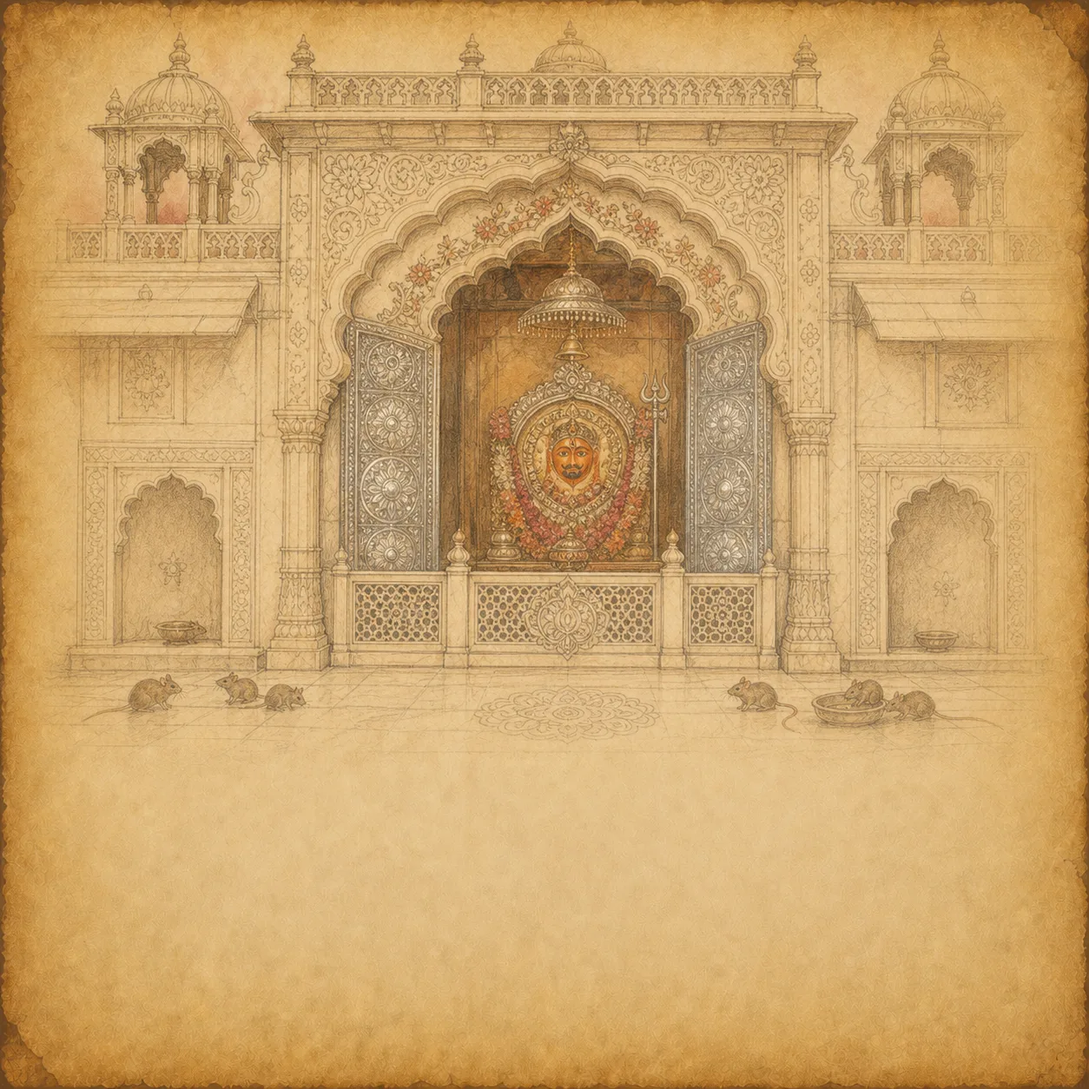
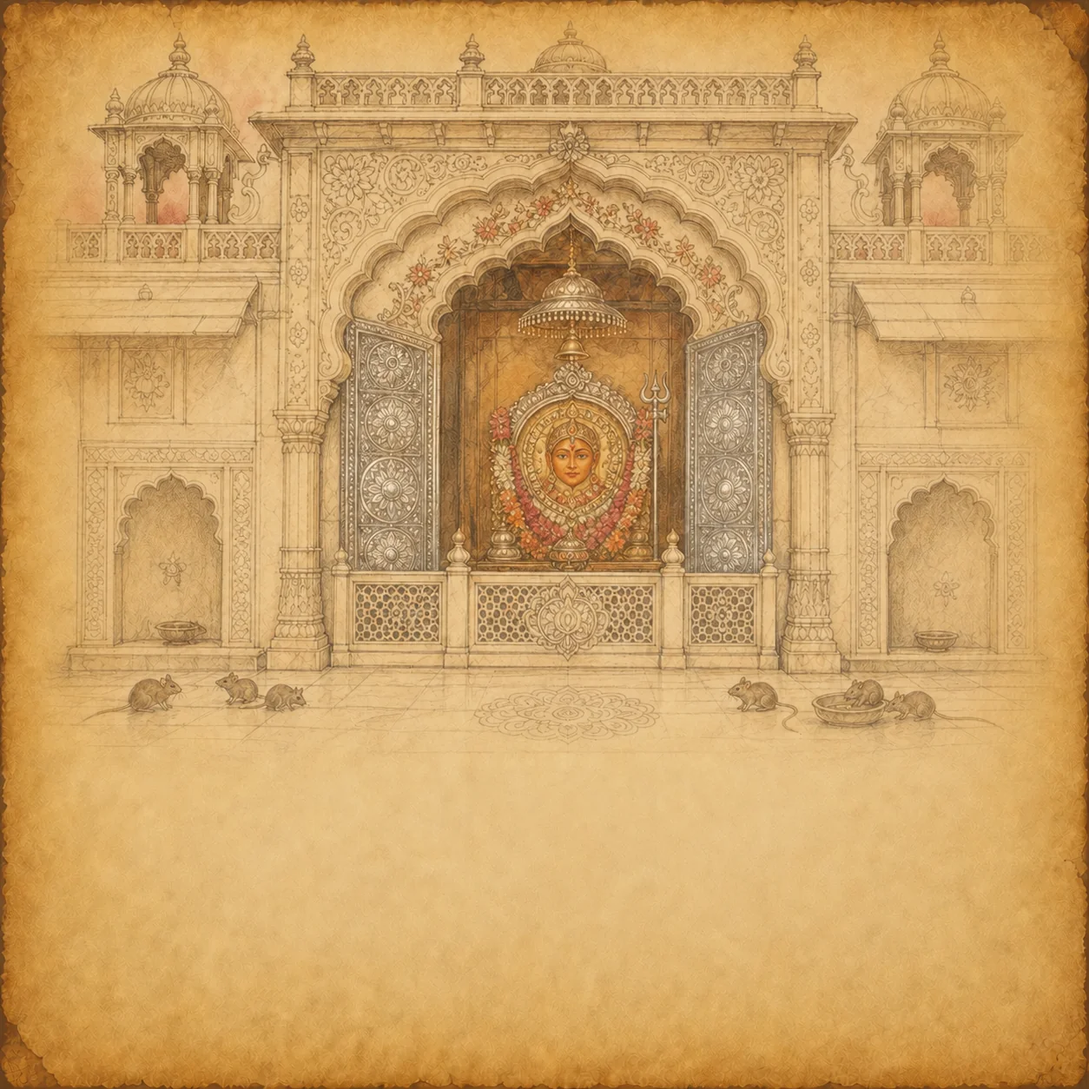
feat(artwork): serve Garud Puran art and reviewed corrections from R2
The nine Garud Puran paintings and the five 14 Oct artwork corrections were
the only reading art still bundled with require() (~2.5 MB). All 14 are now
published to R2 (immutable caching, byte-identical public responses) and
resolved through the existing content-hashed manifests:

- Garud Puran: new garud-puran folder in prepare-reading-backgrounds.mjs;
  garudPuranImages are RemoteBackground descriptors.
- Corrections: the approved files replace their slot sources (four
  backgrounds, Karni Mata banner); new hashes mean new cache files, so stale
  downloads of the old art are never reused. artworkCorrections.ts removed.
- ListingThumbImage crops R2 art from manifest dimensions.
- Guard test fails if reading artwork is require()d again (RULEBOOK §11.8).

diff --git a/mobile/src/components/__tests__/BackgroundArtwork.test.tsx b/mobile/src/components/__tests__/BackgroundArtwork.test.tsx
@@ -8,13 +8,8 @@ import { ArtworkCaptureContext, createArtworkPaintBarrier } from '../ArtworkCapt
 import { readerIllustrationAsset } from '@/data/readerIllustrationAsset';
 import { backgroundAsset, bundledReadingFallback } from '@/data/backgroundAsset';
 import { evictBackgroundAsset, subscribeBackgroundAsset } from '@/utils/backgroundAssetCache';
-import { bundledArtworkCorrection } from '@/data/artworkCorrections';
-
-jest.mock('@assets/artwork-corrections/theerth-karni-mata-background.webp', () => 101);
-jest.mock('@assets/artwork-corrections/theerth-karni-mata-banner.webp', () => 102);
-jest.mock('@assets/artwork-corrections/hanuman-sita-background.webp', () => 103);
-jest.mock('@assets/artwork-corrections/ram-hanuman-background.webp', () => 104);
-jest.mock('@assets/artwork-corrections/rama-darbar-background.webp', () => 105);
+import { readFileSync } from 'fs';
+import path from 'path';
 
 jest.mock('@/utils/backgroundAssetCache', () => ({
   subscribeBackgroundAsset: jest.fn(),
@@ -26,6 +21,8 @@ jest.mock('@/data/readerIllustrationManifest.json', () => ({
   assets: { 'deity-krishna-bansuri': { hash: 'krishna-fixture', ext: 'webp', width: 960, height: 480 } },
 }));
 
+const approvedCorrections: { assets: Record<string, { sha256: string }> } = JSON.parse(readFileSync(
+  path.join(__dirname, '../../../../docs/evaluations/artwork-corrections-2026-10-14/approved.json'), 'utf8'));
 const source = backgroundAsset('backgrounds--source-vishnu-narayana');
 const other = backgroundAsset('backgrounds--deity-durga-lion');
 const neutral = backgroundAsset('backgrounds--reading-parchment-option2');
@@ -156,38 +153,19 @@ test('reader illustrations share deferred work and keep fallback until native de
   expect(StyleSheet.flatten(remote.props.style).opacity).toBe(1);
 });
 
+// The reviewed 14 Oct refinements ship from R2 under their own hashes: a new hash
+// is a new cache file, so stale downloads of the old art are never reused.
 test.each([
-  backgroundAsset('backgrounds--theerth-karni-mata'),
-  backgroundAsset('chalisa--Hanuman_sita'),
-  backgroundAsset('chalisa--Ram_hanuman'),
-  backgroundAsset('backgrounds--deity-rama-darbar'),
-  readerIllustrationAsset('theerth-karni-mata'),
-])('reviewed correction %s paints immediately without requesting stale cached art', corrected => {
-  act(() => { tree = TestRenderer.create(<CachedArtwork source={corrected} fallback={<Image source={99} />} />); });
-  expect(tree.root.findByType(Image).props.source).toBe(bundledArtworkCorrection(corrected));
-  expect(deferred).toHaveLength(0);
-  expect(subscribeBackgroundAsset).not.toHaveBeenCalled();
-});
-
-test('sharing a bundled correction waits for native paint, including after changing the source', async () => {
-  const capture = createArtworkPaintBarrier();
-  const corrected = backgroundAsset('backgrounds--theerth-karni-mata');
-  act(() => { tree = TestRenderer.create(<ArtworkCaptureContext.Provider value={capture}><CachedArtwork source={corrected} /></ArtworkCaptureContext.Provider>); });
-  let painted = false;
-  const waiting = capture.wait(1000).then(result => { painted = true; return result; });
-  await Promise.resolve();
-  expect(painted).toBe(false);
-  act(() => tree.root.findByType(Image).props.onLoad());
-  await expect(waiting).resolves.toBe(true);
-  const oldEvents = tree.root.findByType(Image).props;
-  act(() => tree.update(<ArtworkCaptureContext.Provider value={capture}><CachedArtwork source={readerIllustrationAsset('theerth-karni-mata')} /></ArtworkCaptureContext.Provider>));
-  painted = false;
-  const changed = capture.wait(1000).then(result => { painted = true; return result; });
-  await Promise.resolve();
-  expect(painted).toBe(false);
-  act(() => { oldEvents.onLoad(); oldEvents.onError(); });
-  await Promise.resolve();
-  expect(painted).toBe(false);
-  act(() => tree.root.findByType(Image).props.onLoad());
-  await expect(changed).resolves.toBe(true);
+  ['backgrounds--theerth-karni-mata', 'theerth-karni-mata-background.webp'],
+  ['chalisa--Hanuman_sita', 'hanuman-sita-background.webp'],
+  ['chalisa--Ram_hanuman', 'ram-hanuman-background.webp'],
+  ['backgrounds--deity-rama-darbar', 'rama-darbar-background.webp'],
+] as const)('reviewed correction %s is requested from R2 at its approved hash', (stem, file) => {
+  const hash = approvedCorrections.assets[file].sha256.slice(0, 16);
+  act(() => { tree = TestRenderer.create(<CachedArtwork source={backgroundAsset(stem)} />); });
+  expect(tree.root.findByType(Image).props.source).toBe(bundledReadingFallback);
+  act(() => deferred[0]());
+  expect(subscribeBackgroundAsset).toHaveBeenCalledWith(expect.objectContaining({
+    key: hash, subdir: 'reading-backgrounds', remoteUrl: expect.stringContaining(`/reading-backgrounds/${hash}.webp`),
+  }), expect.any(Function));
 });

diff --git a/mobile/src/components/ListingCard.tsx b/mobile/src/components/ListingCard.tsx
@@ -1,5 +1,5 @@
 import React, { useState } from 'react';
-import { Image, Pressable, StyleSheet, Text, View, type ImageSourcePropType } from 'react-native';
+import { Image, Pressable, StyleSheet, Text, View } from 'react-native';
 import { LinearGradient } from 'expo-linear-gradient';
 import { useTheme } from '@/theme/ThemeContext';
 import { elevation } from '@/theme/elevation';
@@ -7,6 +7,8 @@ import { fontFamilies } from '@/theme/typography';
 import { useGitaLanguage } from '@/data/gita/language';
 import { isLatinLang, meaningToken, pillTextStyle, titleFontByLang } from '@/utils/langType';
 import { coverRect } from '@/utils/coverRect';
+import { backgroundAspectRatio, type BackgroundImage } from '@/data/backgroundAsset';
+import CachedArtwork from './CachedArtwork';
 
 /**
  * The one content-listing card (design.md §82, RULEBOOK §3 "Listing cards").
@@ -136,25 +138,30 @@ export function ListingScope({ children, testID }: { children: string; testID?: 
 }
 
 /**
- * A bundled image cover-cropped into the listing thumb, keeping `focusX` (0–1
+ * A painting cover-cropped into the listing thumb, keeping `focusX` (0–1
  * across the painting) in view — wide paintings put their subject off-centre.
+ * Bundled images use their intrinsic size; published R2 paintings use the
+ * manifest dimensions, so the crop is known before anything downloads.
  */
-export function ListingThumbImage({ source, focusX = 0.5 }: { source: ImageSourcePropType; focusX?: number }) {
+export function ListingThumbImage({ source, focusX = 0.5 }: { source: BackgroundImage; focusX?: number }) {
   const [box, setBox] = useState({ width: 0, height: 0 });
-  const asset = Image.resolveAssetSource(source);
-  const rect = box.width && asset?.width ? coverRect(asset.width, asset.height, box.width, box.height, focusX) : null;
+  const asset = typeof source === 'number' ? Image.resolveAssetSource(source) : undefined;
+  const remoteRatio = backgroundAspectRatio(source);
+  const size = asset?.width && asset.height ? { width: asset.width, height: asset.height }
+    : remoteRatio ? { width: remoteRatio, height: 1 } : null;
+  const rect = box.width && size ? coverRect(size.width, size.height, box.width, box.height, focusX) : null;
+  // right/bottom 'auto' so the cached image's absolute-fill base cannot stretch it back to the box.
+  const placement = rect ? { position: 'absolute' as const, width: rect.width, height: rect.height, left: rect.left, top: rect.top, right: 'auto' as const, bottom: 'auto' as const } : null;
   return (
     <View
       style={StyleSheet.absoluteFillObject}
       onLayout={event => setBox({ width: event.nativeEvent.layout.width, height: event.nativeEvent.layout.height })}
     >
-      {rect ? (
-        <Image
-          source={source}
-          accessible={false}
-          resizeMode="stretch"
-          style={{ position: 'absolute', width: rect.width, height: rect.height, left: rect.left, top: rect.top }}
-        />
+      {placement && typeof source === 'number' ? (
+        <Image source={source} accessible={false} resizeMode="stretch" style={placement} />
+      ) : null}
+      {placement && typeof source !== 'number' ? (
+        <CachedArtwork source={source} style={StyleSheet.absoluteFill} imageStyle={placement} resizeMode="stretch" />
       ) : null}
     </View>
   );

diff --git a/mobile/src/components/__tests__/ListingCard.test.tsx b/mobile/src/components/__tests__/ListingCard.test.tsx
@@ -2,11 +2,13 @@ import React from 'react';
 import fs from 'fs';
 import path from 'path';
 import TestRenderer, { act } from 'react-test-renderer';
+import CachedArtwork from '../CachedArtwork';
 
 let mockLang = 'hi';
 jest.mock('react-native', () => ({
   Image: Object.assign((props: object) => require('react').createElement('Image', props), { resolveAssetSource: () => ({ width: 960, height: 480 }) }),
   Pressable: 'Pressable', Text: 'Text', View: 'View',
+  InteractionManager: { runAfterInteractions: () => ({ cancel: () => undefined }) },
   StyleSheet: { create: (x: unknown) => x, absoluteFillObject: { position: 'absolute' } },
   Platform: { OS: 'ios', select: (options: Record<string, unknown>) => options.ios ?? options.default },
 }));
@@ -86,6 +88,18 @@ test('a wide painting is cover-cropped around its focal point once the thumb is 
   const image = tree.root.findByType('Image' as any);
   expect(image.props.style).toMatchObject({ width: 230, height: 115 });
   expect(image.props.style.left).toBeCloseTo(46 - 0.68 * 230);
+});
+
+test('a published R2 painting is cropped from its manifest size before it downloads', () => {
+  const remote = { kind: 'remote-background', stem: 'garud-puran--cover' } as const;
+  let tree!: TestRenderer.ReactTestRenderer;
+  act(() => { tree = TestRenderer.create(<ListingThumbImage source={remote} focusX={0.68} />); });
+  trees.push(tree);
+  act(() => tree.root.findAllByType('View' as any)[0].props.onLayout({ nativeEvent: { layout: { width: 92, height: 115 } } }));
+  const art = tree.root.findByType(CachedArtwork);
+  expect(art.props.source).toBe(remote);
+  expect(art.props.imageStyle).toMatchObject({ width: 230, height: 115, right: 'auto', bottom: 'auto' });
+  expect(art.props.imageStyle.left).toBeCloseTo(46 - 0.68 * 230);
 });
 
 test('every story cover fills a listing thumb without showing its reviewed blank band', () => {

diff --git a/mobile/src/data/__tests__/artworkDelivery.jest.test.ts b/mobile/src/data/__tests__/artworkDelivery.jest.test.ts
@@ -1,0 +1,27 @@
+import fs from 'node:fs';
+import path from 'node:path';
+
+// RULEBOOK §11.8: reading artwork ships from R2. These folders are publishing
+// sources for the manifests; only the neutral paper is a bundled fallback.
+const R2_ART = /(?:^|\/)(?:backgrounds|chalisa|gita|shiva-strotam|garud-puran|reader-illustrations|kids-stories|artwork-corrections)\/[^'"]+\.(?:webp|png|jpe?g)$/;
+const ALLOWED = new Set(['@assets/backgrounds/reading-parchment-option2.webp']);
+const mobile = path.join(__dirname, '../../..');
+
+function sourceFiles(dir: string): string[] {
+  return fs.readdirSync(dir, { withFileTypes: true }).flatMap(entry => {
+    const full = path.join(dir, entry.name);
+    if (entry.isDirectory()) return entry.name === '__tests__' || entry.name === 'node_modules' ? [] : sourceFiles(full);
+    return /\.(?:ts|tsx)$/.test(entry.name) ? [full] : [];
+  });
+}
+
+test('no reading artwork is bundled with require(), apart from the paper fallback', () => {
+  const offenders: string[] = [];
+  for (const file of [...sourceFiles(path.join(mobile, 'src')), ...sourceFiles(path.join(mobile, 'assets'))]) {
+    for (const [, target] of fs.readFileSync(file, 'utf8').matchAll(/require\(\s*['"]([^'"]+)['"]\s*\)/g)) {
+      const resolved = target.startsWith('.') ? path.relative(mobile, path.resolve(path.dirname(file), target)) : target;
+      if (R2_ART.test(resolved) && !ALLOWED.has(target)) offenders.push(`${path.relative(mobile, file)} → ${target}`);
+    }
+  }
+  expect(offenders).toEqual([]);
+});

diff --git a/mobile/assets/garud-puran/index.ts b/mobile/assets/garud-puran/index.ts
@@ -1,16 +1,21 @@
 import type { GarudPuranArtId } from '../../src/data/garud-puran';
+import { backgroundAsset, type RemoteBackground } from '../../src/data/backgroundAsset';
 
-/** Each scene is pinned to its own story; no random rotation. */
-export const garudPuranImages: Record<GarudPuranArtId, number> = {
-  cover: require('./cover.webp'),
-  daan: require('./daan.webp'),
-  babhruvahana: require('./babhruvahana.webp'),
-  'five-pretas': require('./five-pretas.webp'),
-  viravahana: require('./viravahana.webp'),
-  'sita-ancestors': require('./sita-ancestors.webp'),
-  ancestors: require('./ancestors.webp'),
-  yama: require('./yama.webp'),
-  vaitarani: require('./vaitarani.webp'),
+/**
+ * Each scene is pinned to its own story; no random rotation. The paintings
+ * here are publishing sources for R2 (`prepare-reading-backgrounds.mjs`),
+ * resolved through the background manifest rather than bundled.
+ */
+export const garudPuranImages: Record<GarudPuranArtId, RemoteBackground> = {
+  cover: backgroundAsset('garud-puran--cover'),
+  daan: backgroundAsset('garud-puran--daan'),
+  babhruvahana: backgroundAsset('garud-puran--babhruvahana'),
+  'five-pretas': backgroundAsset('garud-puran--five-pretas'),
+  viravahana: backgroundAsset('garud-puran--viravahana'),
+  'sita-ancestors': backgroundAsset('garud-puran--sita-ancestors'),
+  ancestors: backgroundAsset('garud-puran--ancestors'),
+  yama: backgroundAsset('garud-puran--yama'),
+  vaitarani: backgroundAsset('garud-puran--vaitarani'),
 };
 
 /**

diff --git a/mobile/src/utils/__tests__/shareBackgroundReady.test.tsx b/mobile/src/utils/__tests__/shareBackgroundReady.test.tsx
@@ -5,11 +5,8 @@ import { ThemeProvider } from '@/theme/ThemeContext';
 import { ShareProvider, useShare } from '@/utils/shareVerse';
 import { subscribeBackgroundAsset } from '@/utils/backgroundAssetCache';
 import { createArtworkPaintBarrier } from '@/components/ArtworkCaptureContext';
-import { bundledArtworkCorrection } from '@/data/artworkCorrections';
 
-// Must stay a CDN-only plate: a stem with a bundled correction (artworkCorrections.ts)
-// never requests the remote image, which is what the first test waits on. Rama
-// Darbar was the fixture until #467 bundled its corrected art.
+// Any published plate works: every background resolves through R2 and the cache.
 const mockRemoteStem = 'backgrounds--deity-krishna-bansuri';
 const mockCapture = jest.fn(() => Promise.resolve('file:///tmp/card.png'));
 jest.mock('react-native-view-shot', () => ({ captureRef: (...args: unknown[]) => mockCapture(...args as []) }));
@@ -66,10 +63,6 @@ async function begin() {
   act(() => tree.root.findAll(n => n.props.accessibilityLabel === 'trigger' && typeof n.props.onPress === 'function')[0].props.onPress());
   await settle();
 }
-
-test('the fixture plate is still fetched remotely, not bundled', () => {
-  expect(bundledArtworkCorrection({ kind: 'remote-background', stem: mockRemoteStem })).toBeNull();
-});
 
 test('capture waits for both remote background layers to paint, not only the layout or download', async () => {
   await begin();

diff --git a/mobile/src/components/CachedArtwork.tsx b/mobile/src/components/CachedArtwork.tsx
@@ -3,7 +3,6 @@ import { Image, InteractionManager, StyleSheet, View, type ImageResizeMode, type
 import { NavigationContext } from '@react-navigation/native';
 import { bundledReadingFallback } from '@/data/backgroundAsset';
 import { artworkRequest, type ArtworkImage } from '@/data/artworkAsset';
-import { bundledArtworkCorrection } from '@/data/artworkCorrections';
 import { evictBackgroundAsset, subscribeBackgroundAsset } from '@/utils/backgroundAssetCache';
 import { ArtworkCaptureContext } from './ArtworkCaptureContext';
 
@@ -25,7 +24,7 @@ export default function CachedArtwork({ source, style, resizeMode = 'cover', fal
   const captureDone = useRef<(() => void) | undefined>(undefined);
   const fallbackLoaded = useRef(false);
   const remoteFailed = useRef(false);
-  const bundledSource = bundledArtworkCorrection(source) ?? (typeof source === 'number' ? source : null);
+  const bundledSource = typeof source === 'number' ? source : null;
   const visibleBundledSource = useRef(bundledSource);
   visibleBundledSource.current = bundledSource;
   const request = bundledSource === null ? artworkRequest(source) : null;

diff --git a/mobile/src/data/__tests__/garudPuran.jest.test.ts b/mobile/src/data/__tests__/garudPuran.jest.test.ts
@@ -59,3 +59,16 @@ test('bundled artwork exactly matches the approved Style 3 review set', () => {
     expect(asset.dimensions).toEqual([960, 480]);
   }
 });
+
+test('every Garud Puran painting ships from R2 through a published background entry, never the bundle', () => {
+  const manifest = JSON.parse(fs.readFileSync(path.join(__dirname, '../backgroundAssetManifest.json'), 'utf8'));
+  const index = fs.readFileSync(path.join(__dirname, '../../../assets/garud-puran/index.ts'), 'utf8');
+  expect(index).not.toMatch(/require\(/);
+  for (const [artId, image] of Object.entries(garudPuranImages)) {
+    expect(image).toEqual({ kind: 'remote-background', stem: `garud-puran--${artId}` });
+    const entry = manifest.assets[image.stem];
+    const source = fs.readFileSync(path.join(__dirname, `../../../assets/garud-puran/${artId}.webp`));
+    expect(entry.hash).toBe(createHash('sha256').update(source).digest('hex').slice(0, 16));
+    expect(entry.width / entry.height).toBe(2);
+  }
+});

diff --git a/design.md b/design.md
@@ -333,7 +333,7 @@ and cancel when the final viewer leaves. Completed valid artwork has no expiry, 
 automatic eviction. Text and controls never await artwork; native decode errors preserve the
 fallback and evict damaged files for recovery.
 
-Five reviewed correction WebPs are bundled in `mobile/assets/artwork-corrections/` within a 1.25 MiB budget. They correct Karni Mata's background and colored banner, remove the Hanuman–Sita corner mark, and recreate Rama blessing Hanuman and Rama Darbar. `artworkCorrections.ts` resolves these before stale CDN cache entries, including offline use; unpublished CDN hashes are not activated. Other artwork retains the existing remote delivery. The Vishnu background uses the published sepia Narayana plate; colored banners remain separate. Full-strength previews retain source detail while normal backgrounds receive the parchment overlay.
+Five reviewed corrections (14 Oct) correct Karni Mata's background and colored banner, remove the Hanuman–Sita corner mark, and recreate Rama blessing Hanuman and Rama Darbar. Since 16 Oct they are the publishing sources for their own slots (`backgrounds/theerth-karni-mata`, `backgrounds/deity-rama-darbar`, `chalisa/Hanuman_sita`, `chalisa/Ram_hanuman`, `reader-illustrations/theerth-karni-mata`) and ship from R2 like all other artwork; nothing is bundled. Their new hashes are new cache files, so a device that downloaded the old art fetches the correction once. `scripts/verify-artwork-corrections.mjs` checks the sources and manifest hashes against the approval record in `docs/evaluations/artwork-corrections-2026-10-14/`. The Vishnu background uses the published sepia Narayana plate; colored banners remain separate. Full-strength previews retain source detail while normal backgrounds receive the parchment overlay.
 
 Paged sections share a single screen-level paper image instead of duplicating it per list cell.
 
@@ -3714,7 +3714,7 @@ Nine bundled 960×480 WebP paintings follow current-main PR #449: fine warm outl
 
 The source comparison and illustration manifest live in `docs/content/garud-puran/`. `scripts/preview-garud-puran.py` builds `preview.html` from the exact bundled JSON for bilingual reading and artwork review; it is an editorial preview, not a replacement for screenshots of the native app. Technical test and device evidence belongs in `INTEGRATION.md` there. Content contract: RULEBOOK §31.
 
-The approved final set matches the saved Style 3 template and is recorded in `docs/content/garud-puran/design-review/style3-final/manifest.json`. The reader uses `BackgroundLayer(readingParchment)`; the index sits on plain parchment like every §82 listing; saved progress uses Reading / Page and sharing uses the shared prose export.
+The approved final set matches the saved Style 3 template and is recorded in `docs/content/garud-puran/design-review/style3-final/manifest.json`. The nine paintings ship from R2 as `reading-backgrounds` entries `garud-puran--<artId>` (sources in `mobile/assets/garud-puran/`, published by `prepare-reading-backgrounds.mjs`); none is bundled, and the paper shows until each one loads. The reader uses `BackgroundLayer(readingParchment)`; the index sits on plain parchment like every §82 listing; saved progress uses Reading / Page and sharing uses the shared prose export.
 
 ## 82. Content listing card (`ListingCard`)
 
@@ -3735,7 +3735,7 @@ The approved final set matches the saved Style 3 template and is recorded in `do
 ```
 
 - Shell: `cardActiveFrom → cardActiveTo` gradient, 1 px `cardActiveBorder`, radius `lg`, padding 14, gap 14, `elevation.lifted`; pressed opacity 0.86.
-- Thumb: 92 wide, `alignSelf: stretch`, minimum height 115 (4:5), radius `sm`, `parchmentSoft` while loading. The art fills it cover-cropped: `KidsStoryArt fill` (top-anchored so the reviewed blank band never shows), `ComicArt fill` (only the panel's own frame), `ListingThumbImage` (bundled image with a `focusX` focal point). Each unit shows its own key scene for its topic.
+- Thumb: 92 wide, `alignSelf: stretch`, minimum height 115 (4:5), radius `sm`, `parchmentSoft` while loading. The art fills it cover-cropped: `KidsStoryArt fill` (top-anchored so the reviewed blank band never shows), `ComicArt fill` (only the panel's own frame), `ListingThumbImage` (a bundled image or an R2 background with a `focusX` focal point; R2 art is cropped from its manifest width/height before it downloads, showing the paper fallback until then). Each unit shows its own key scene for its topic.
 - Eyebrow (optional): the sequence only — `प्रसंग N`, `पाठ N`, `दिन N`. `listingEyebrow` 13/18 bold script face in `saffronDeep`; English uses the uppercase Inter `sectionLabel` pill style (`EPISODE 1`).
 - Title: the reading language only, `numberOfLines={2}`, `ink`. `listingTitle` 17/25 bold script face; English `listingTitleLatin` 16/22 Cormorant italic.
 - Description (optional): one line, `inkSoft`, `listingBody` 12/18 (English `listingBodyLatin` 13/18), script body face. Copy is at most 32 characters per language and is written to fit a 360 dp phone's ~148 pt column; it is never left to truncation.

diff --git a/wiki/integrations/reading-artwork.md b/wiki/integrations/reading-artwork.md
@@ -1,16 +1,20 @@
 ---
 title: Reading artwork on R2
 type: integration
-sources: [mobile/src/screens/DailyBhaktiScreen.tsx, mobile/src/data/backgroundAsset.ts, mobile/src/data/backgroundAssetManifest.json, mobile/src/data/readerIllustrationAsset.ts, mobile/src/data/readerIllustrationManifest.json, mobile/src/data/readerIllustrationAliases.json, mobile/src/data/artworkAsset.ts, mobile/src/data/assetManifest.ts, mobile/src/data/backgrounds.ts, mobile/src/data/kathaBackgrounds.ts, mobile/src/utils/backgroundAssetCache.ts, mobile/src/components/CachedArtwork.tsx, mobile/src/components/BackgroundArtwork.tsx, mobile/src/components/BackgroundLayer.tsx, mobile/src/components/ReadingArtwork.tsx, mobile/src/components/ReadingBanner.tsx, mobile/src/components/readingBannerFrames.json, mobile/src/components/ProseReadingCard.tsx, mobile/src/components/ProseParagraph.tsx, scripts/prepare-reading-backgrounds.mjs, scripts/prepare-reader-illustrations.mjs, scripts/upload-r2-assets.mjs, docs/content-parity/reader-illustrations-art-style.md, docs/content-parity/reader-illustration-style3-prompt.md]
-last_verified_date: 2026-10-14
+sources: [mobile/assets/garud-puran/index.ts, scripts/verify-artwork-corrections.mjs, mobile/src/data/__tests__/artworkDelivery.jest.test.ts, mobile/src/screens/DailyBhaktiScreen.tsx, mobile/src/data/backgroundAsset.ts, mobile/src/data/backgroundAssetManifest.json, mobile/src/data/readerIllustrationAsset.ts, mobile/src/data/readerIllustrationManifest.json, mobile/src/data/readerIllustrationAliases.json, mobile/src/data/artworkAsset.ts, mobile/src/data/assetManifest.ts, mobile/src/data/backgrounds.ts, mobile/src/data/kathaBackgrounds.ts, mobile/src/utils/backgroundAssetCache.ts, mobile/src/components/CachedArtwork.tsx, mobile/src/components/BackgroundArtwork.tsx, mobile/src/components/BackgroundLayer.tsx, mobile/src/components/ReadingArtwork.tsx, mobile/src/components/ReadingBanner.tsx, mobile/src/components/readingBannerFrames.json, mobile/src/components/ProseReadingCard.tsx, mobile/src/components/ProseParagraph.tsx, scripts/prepare-reading-backgrounds.mjs, scripts/prepare-reader-illustrations.mjs, scripts/upload-r2-assets.mjs, docs/content-parity/reader-illustrations-art-style.md, docs/content-parity/reader-illustration-style3-prompt.md]
+last_verified_date: 2026-10-16
 confidence: high
 status: current
 ---
 
 ## Summary
 
-Forty-five reading assets (43 original paintings and two approved Option 2 assets) are published
-to R2 under content-hashed keys. The app bundles only the 3,102-byte neutral paper from this set. Prose, navigation and controls
+Fifty-four reading assets (43 original paintings, two approved Option 2 assets and the nine Garud
+Puran paintings added 16 Oct) are published to R2 under content-hashed keys. The five reviewed
+14 Oct corrections (four backgrounds plus the Karni Mata banner) were bundled overrides until
+16 Oct; they now replace the source files in their own slots and ship from R2 under new hashes,
+so stale downloads of the old art are never reused. `scripts/verify-artwork-corrections.mjs`
+checks them; `artworkDelivery.jest.test.ts` fails if any reading artwork is `require()`d again. The app bundles only the 3,102-byte neutral paper from this set. Prose, navigation and controls
 render immediately; artwork resolves independently after interactions.
 
 Reader illustrations are now a separate local asset category with their own typed descriptors,

diff --git a/wiki/subsystems/readers.md b/wiki/subsystems/readers.md
@@ -230,4 +230,4 @@ User review corrected the initial portrait layout against current-main PR #449 (
 
 ### Garud Puran final Style 3 integration (2026-10-12)
 
-After user approval, nine exact Style 3 WebPs (1,433,814 bytes total) were bundled locally; the approval and hashes are pinned in `docs/content/garud-puran/artwork/manifest.json`. Current-main `ReadingArtwork` and `BackgroundLayer(readingParchment)` provide the common banner/divider/paper treatment. `HomeStackNavigator` registers both routes lazily, the generated route graph warms the reader from the index, and search yields per reading. Prose sharing carries source context without truncating the explanation; saved progress is labelled Reading / Page. See `docs/content/garud-puran/INTEGRATION.md` for final verification. No R2 or OTA publication.
+After user approval, nine exact Style 3 WebPs (1,433,814 bytes total) were bundled locally; the approval and hashes are pinned in `docs/content/garud-puran/artwork/manifest.json`. Current-main `ReadingArtwork` and `BackgroundLayer(readingParchment)` provide the common banner/divider/paper treatment. `HomeStackNavigator` registers both routes lazily, the generated route graph warms the reader from the index, and search yields per reading. Prose sharing carries source context without truncating the explanation; saved progress is labelled Reading / Page. See `docs/content/garud-puran/INTEGRATION.md` for final verification. **Since 16 Oct the nine paintings ship from R2**, not the bundle: they are `reading-backgrounds` entries `garud-puran--<artId>` (folder added to `prepare-reading-backgrounds.mjs`), `garudPuranImages` holds `RemoteBackground` descriptors, and `ListingThumbImage` crops R2 art from manifest dimensions. See [[integrations/reading-artwork]].

diff --git a/wiki/log.md b/wiki/log.md
@@ -990,3 +990,13 @@ ASCII, registry/search/routine/library integration and Konark temple discovery.
 ## [2026-10-16] ingest | Reconcile PR 478 with merged Shani edition
 
 Preserved main’s sourced Shani payload at index 11 and Dattatreya at 12, removed duplicate Shani catalog/background records, and appended Ganga plus the other eight requested aartis at 13–21. The registry has 22 payloads and the category 23 entries including the Ram Stuti alias. Added regression checks for main’s persisted positions and adjusted native flow selectors/order. All nine requested titles remain covered; native verification stays deferred.
+
+## [2026-10-16] ingest | Bundled reading artwork moved to R2
+
+The Garud Puran paintings (9, ~1.4 MB) and the five 14 Oct artwork corrections (~1.1 MB) were the
+only reading art still bundled with `require()`. Uploaded all 14 to R2 with immutable caching and
+verified byte-identical public responses, then activated their hashes: Garud Puran became
+`garud-puran--*` background entries, the corrections replaced their slot sources, and the
+`artworkCorrections.ts` override was removed. Updated [[integrations/reading-artwork]] and
+[[subsystems/readers]]. Remaining bundled images are UI/offline by design (Storybook and More
+icons, widget gallery plates, celestial chakra, the paper fallback).
